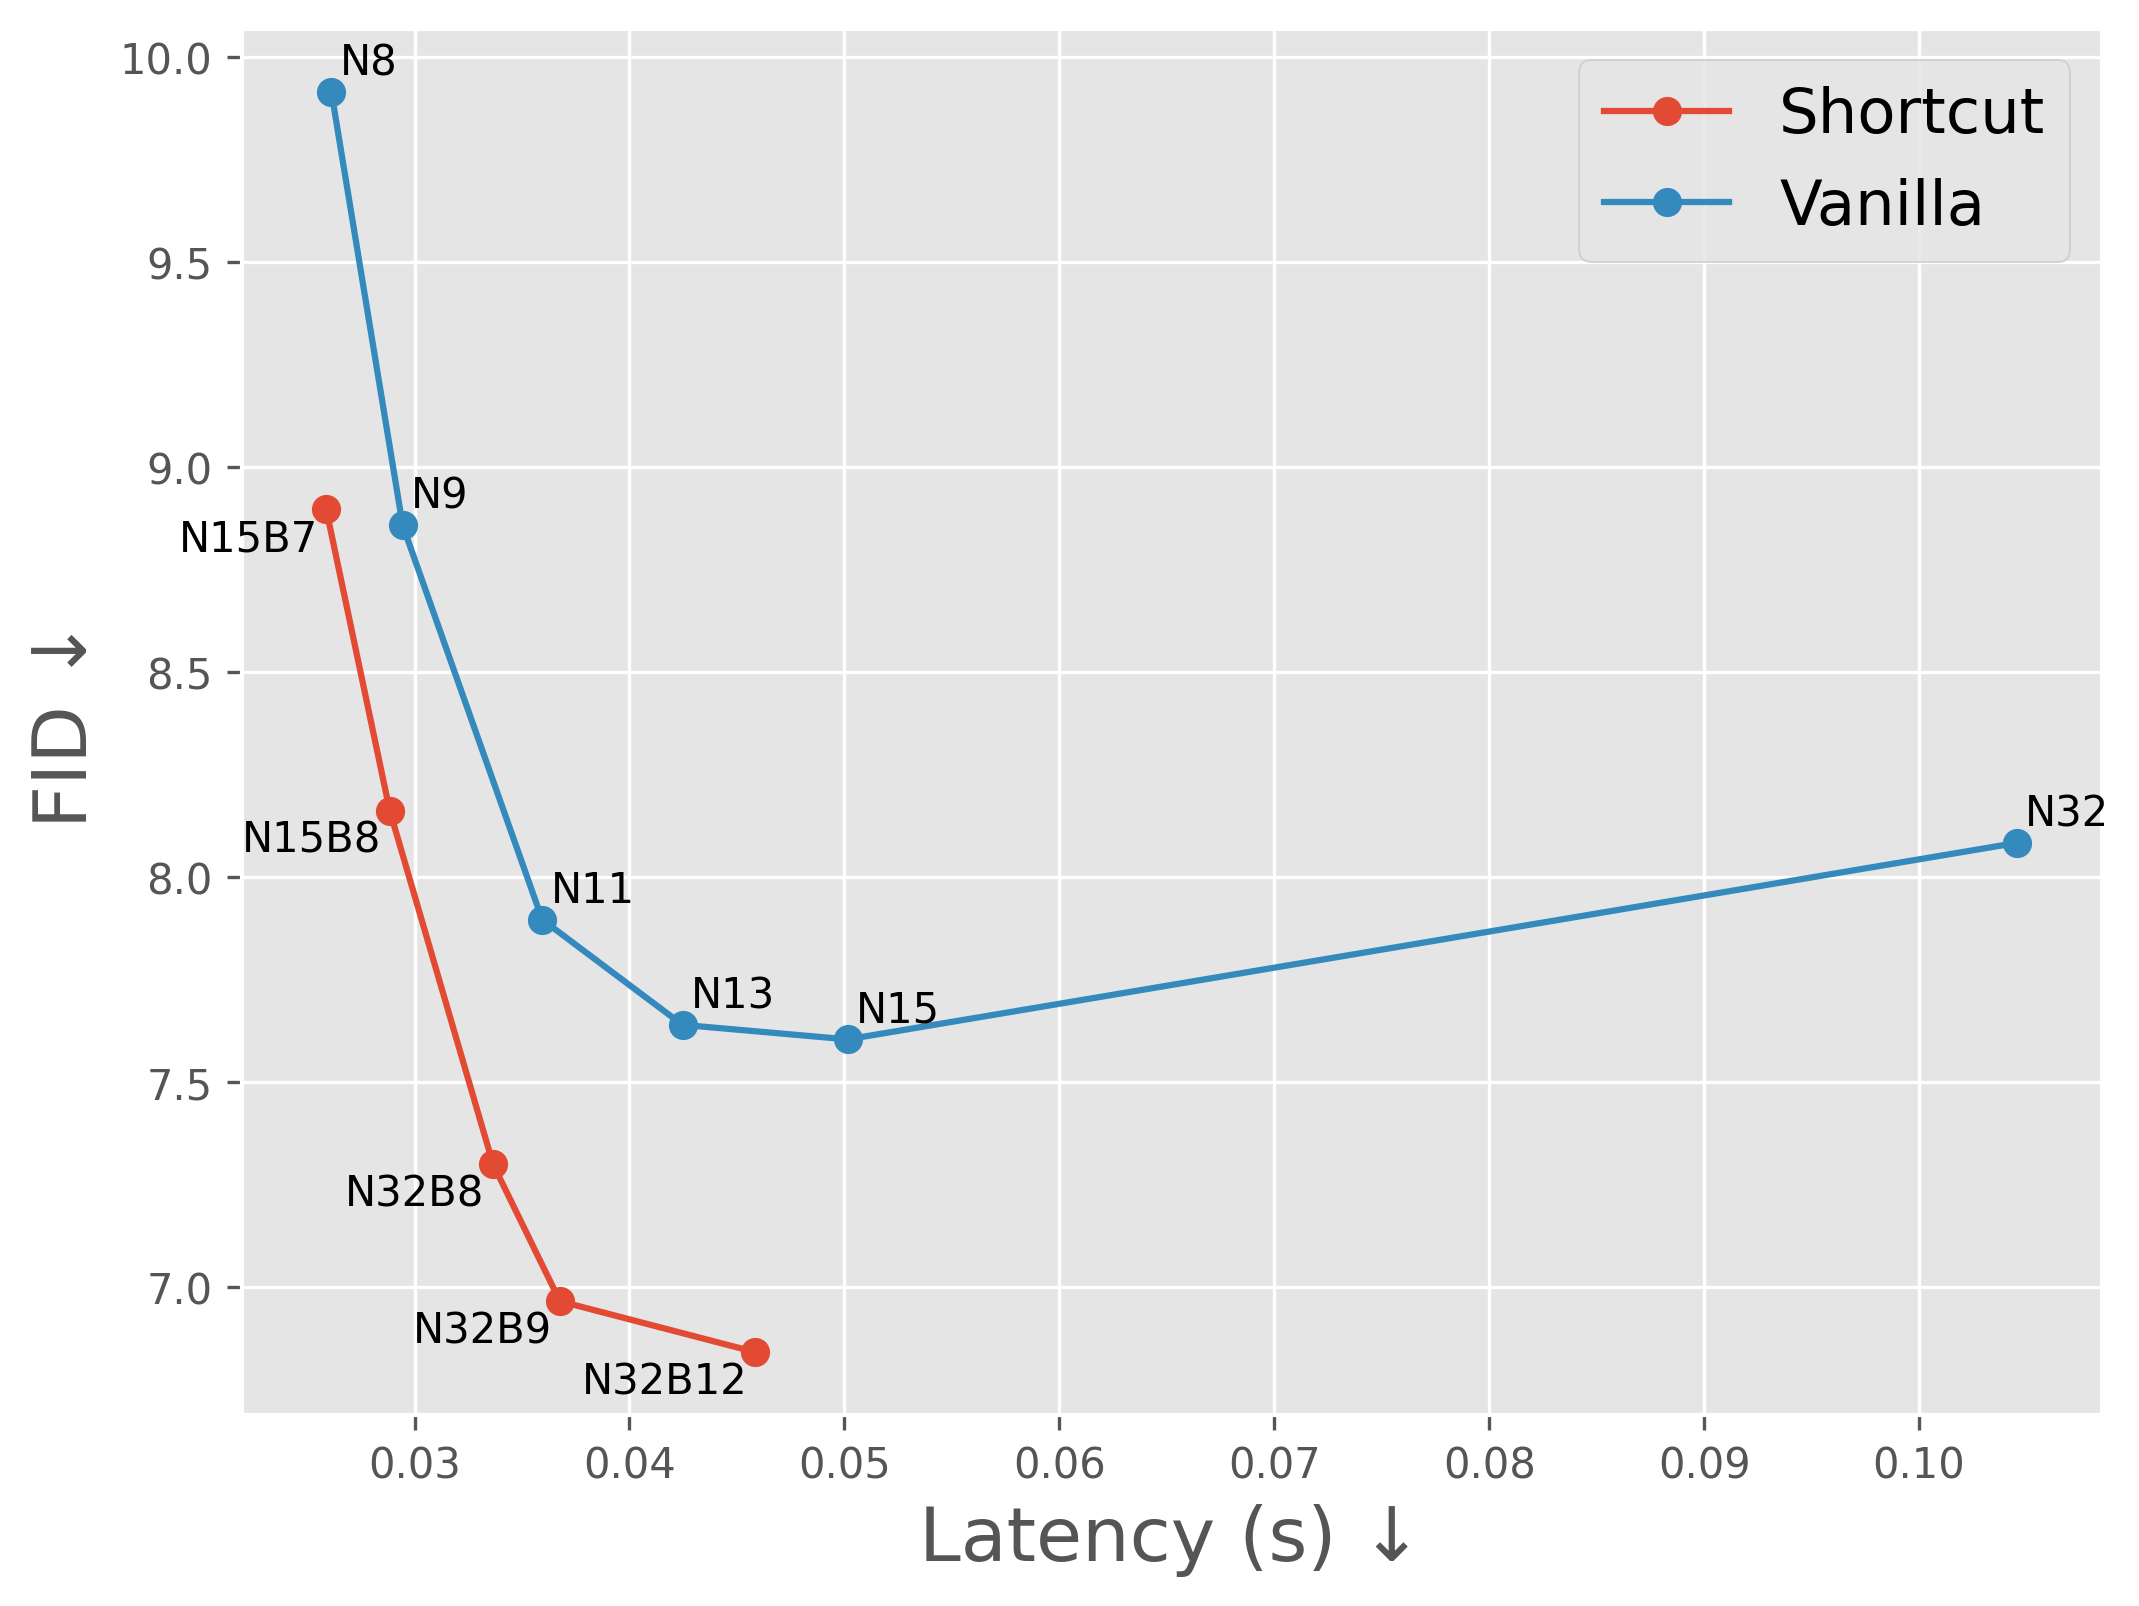
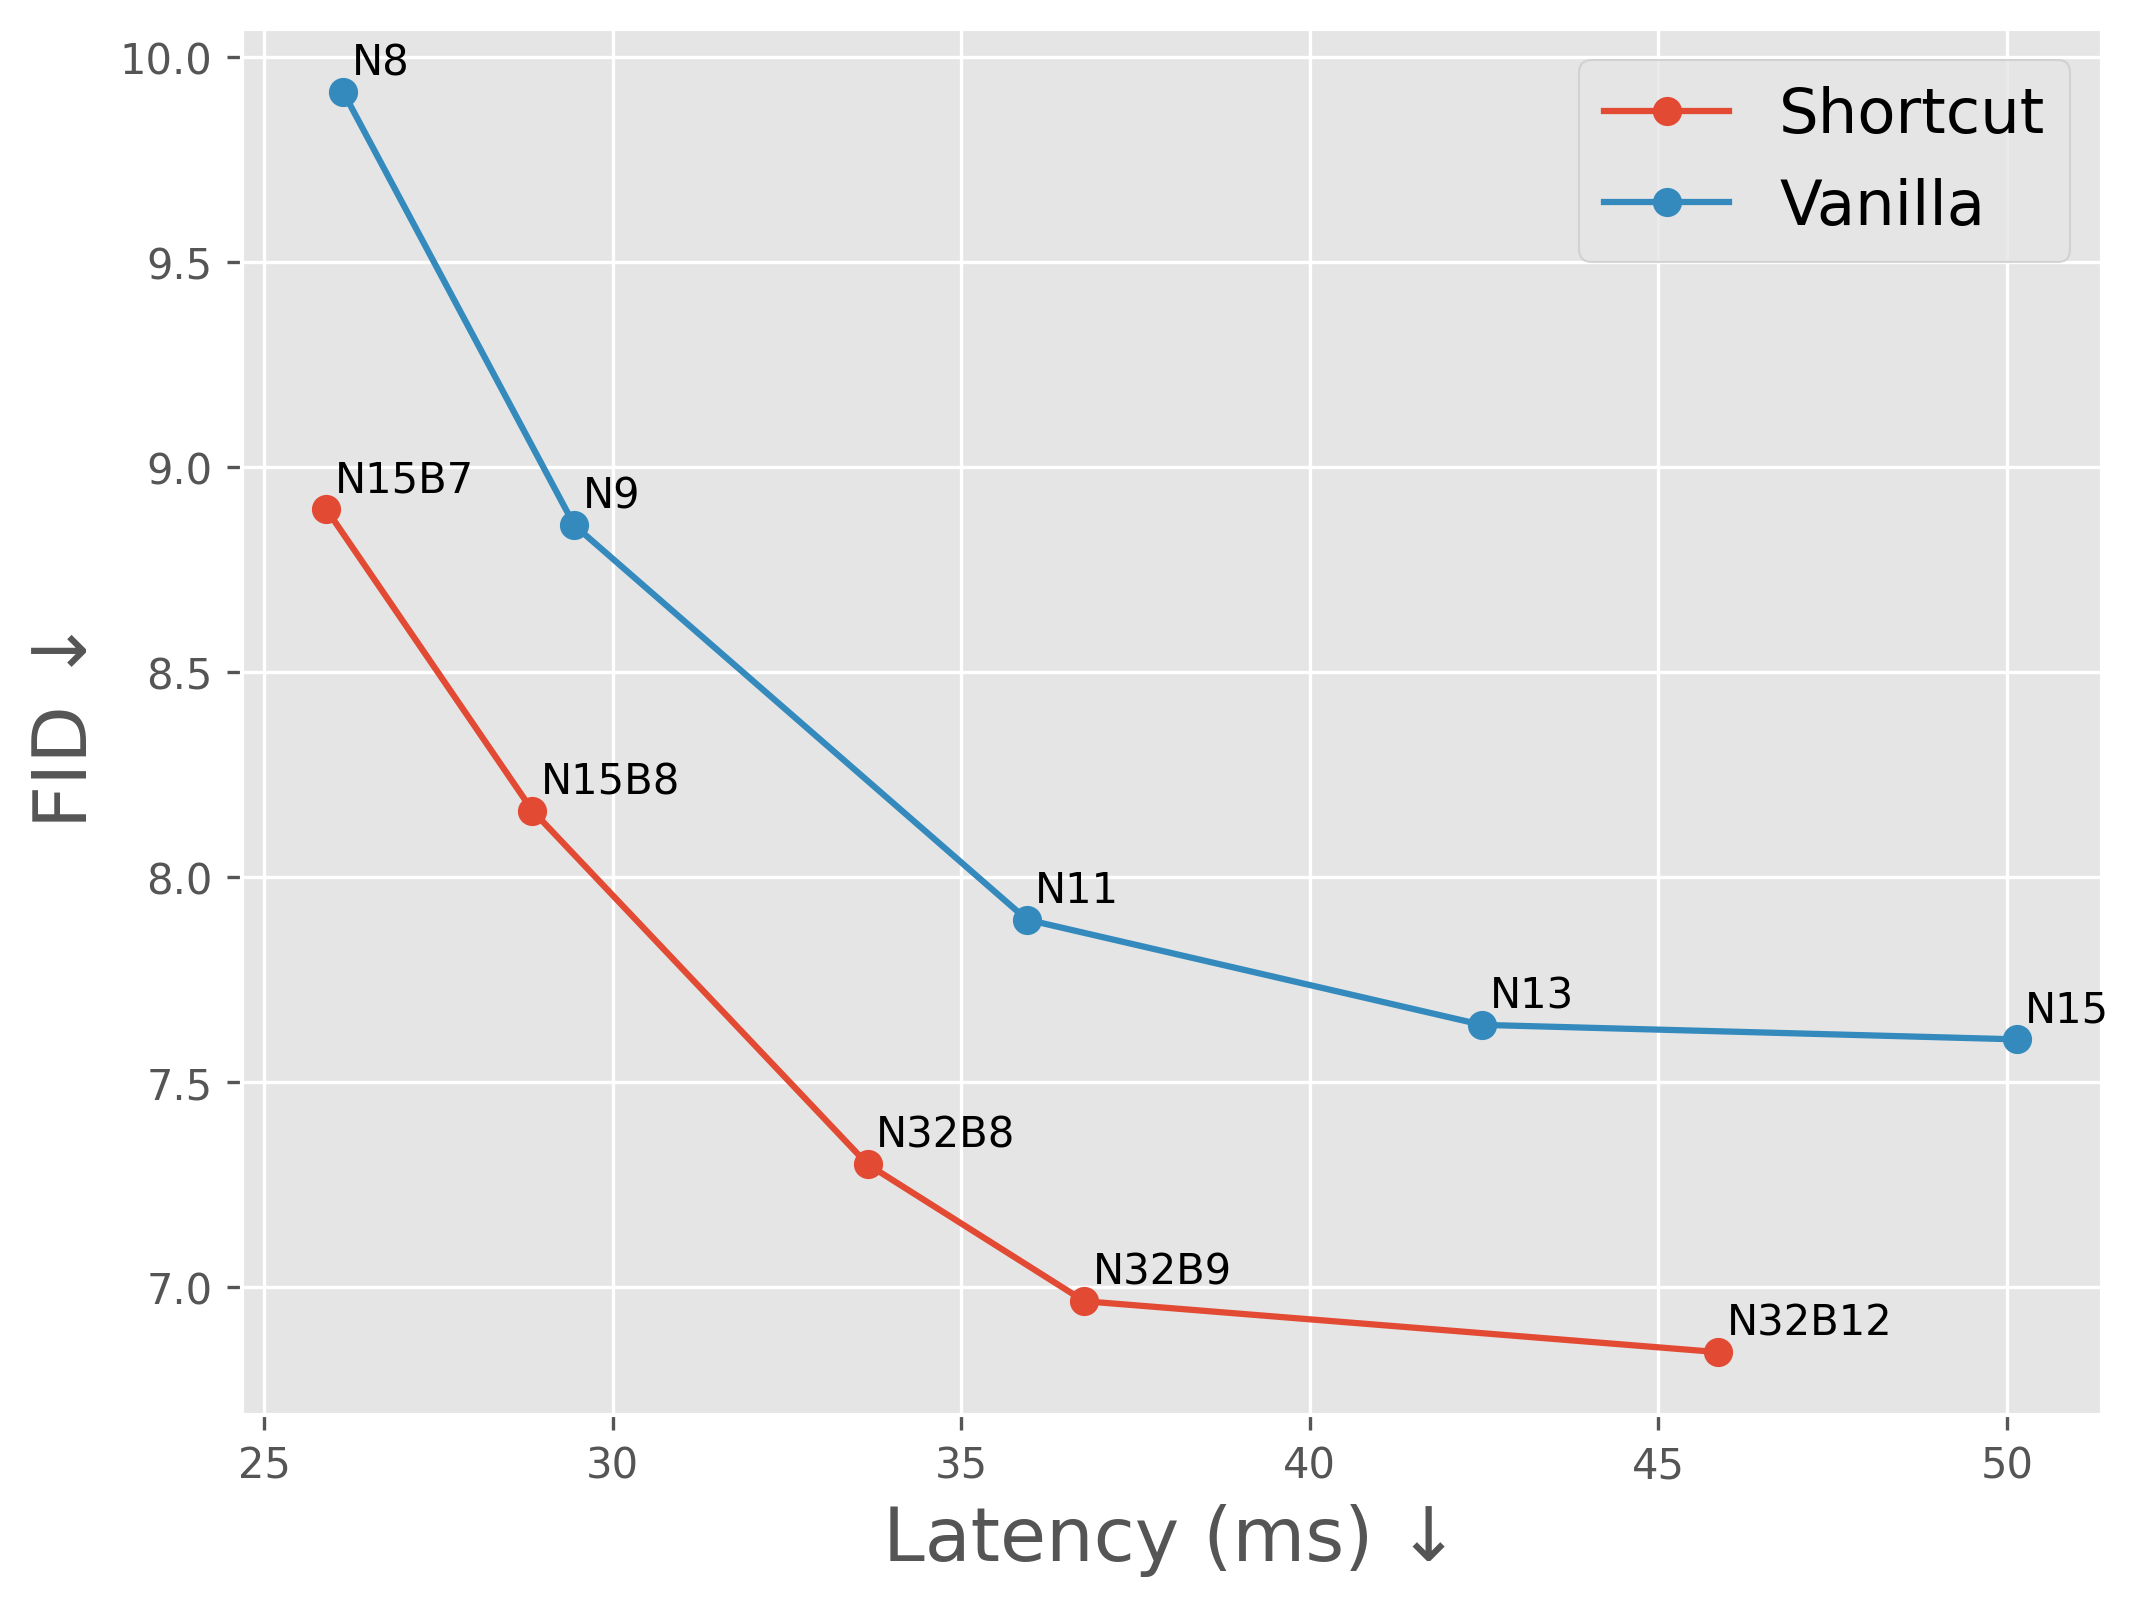
update

diff --git a/README.md b/README.md
@@ -2,6 +2,11 @@
 
 [Paper](https://arxiv.org/abs/2602.23996) | [Project Page](https://kaiwen-zhu.github.io/research/migm-shortcut)
 
+<div align='center'>
+<img src="assets/conceptual.png" width="75%"/>
+<br>
+Projection from latent space to token space is lossy, so lifting from token space to latent space is heavy. Model the smooth latent evolution instead.
+</div>
 
 ## Introduction
 + In MIGMs, the trajectory of model features is often smooth.
